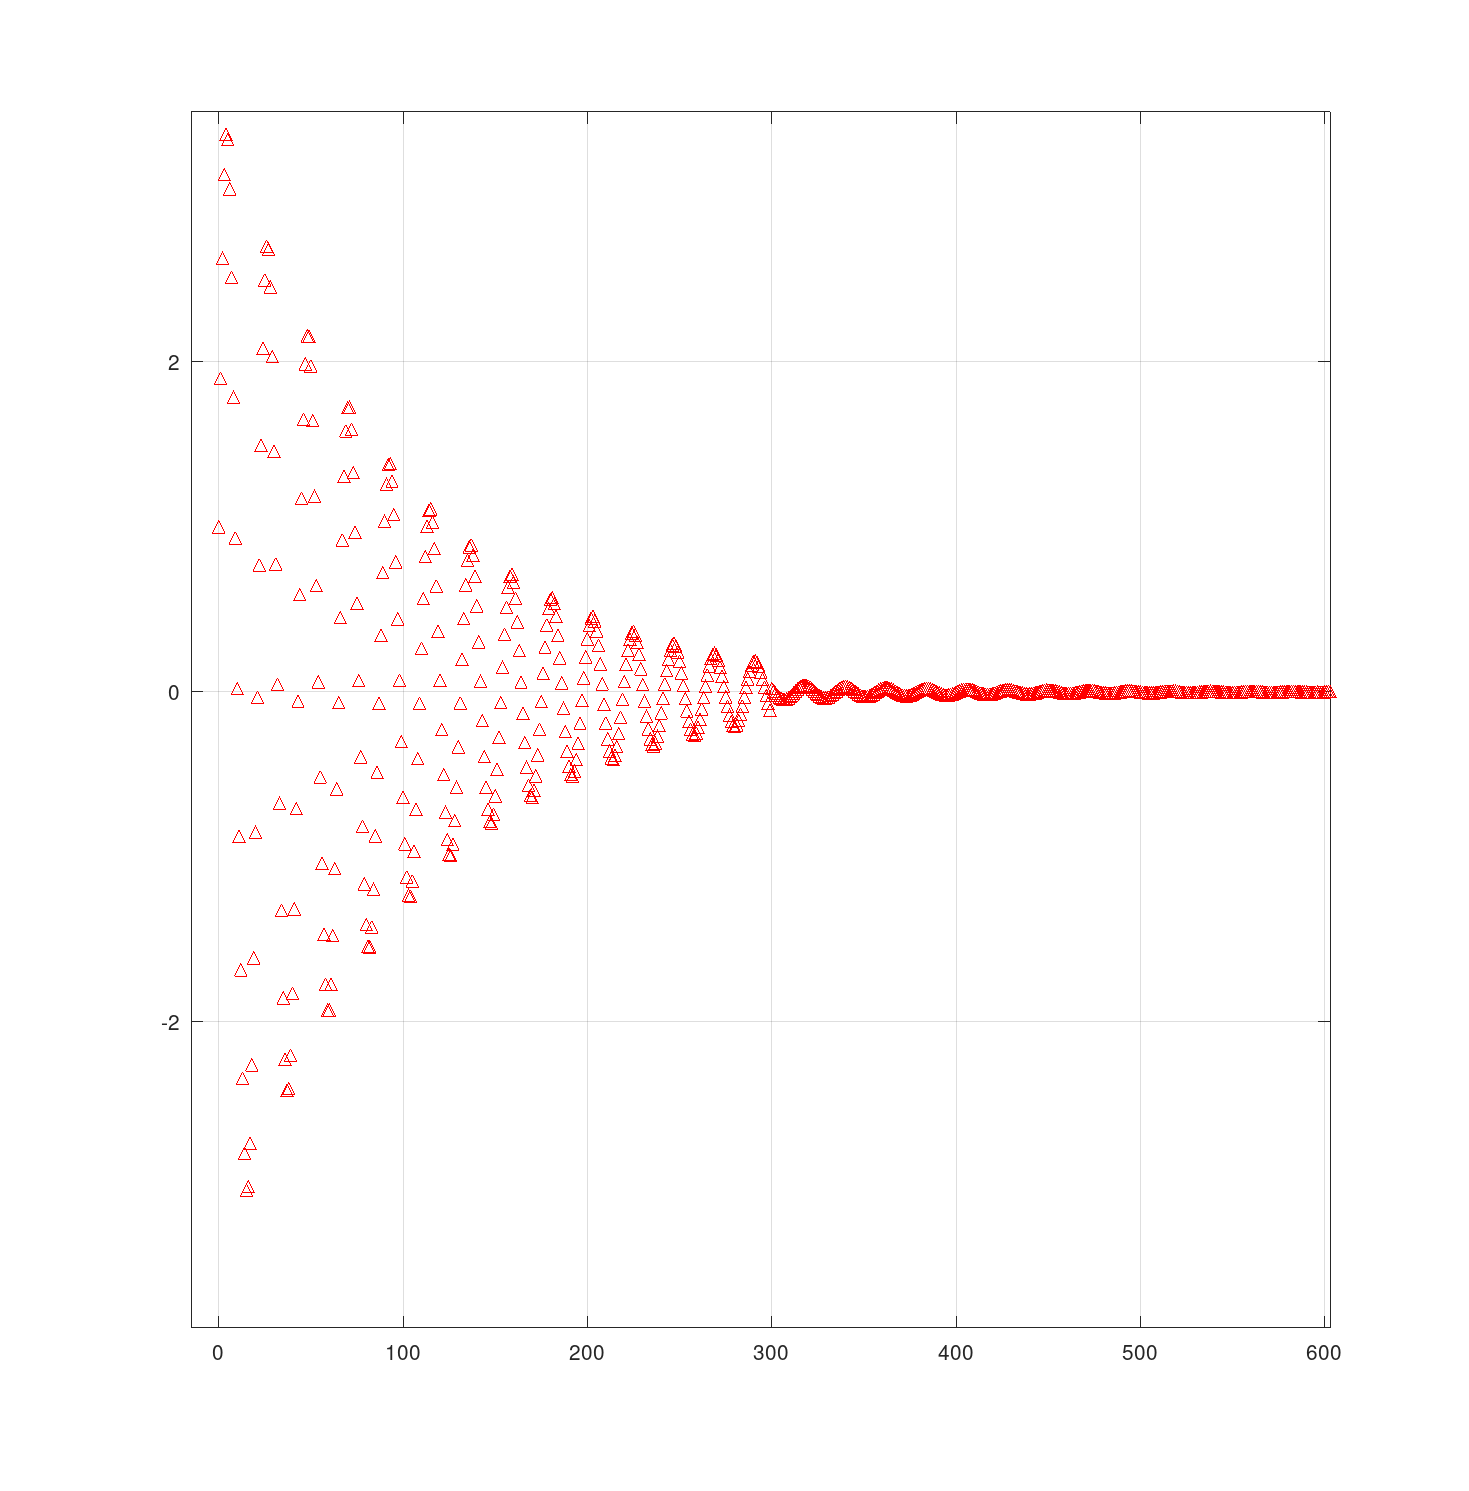
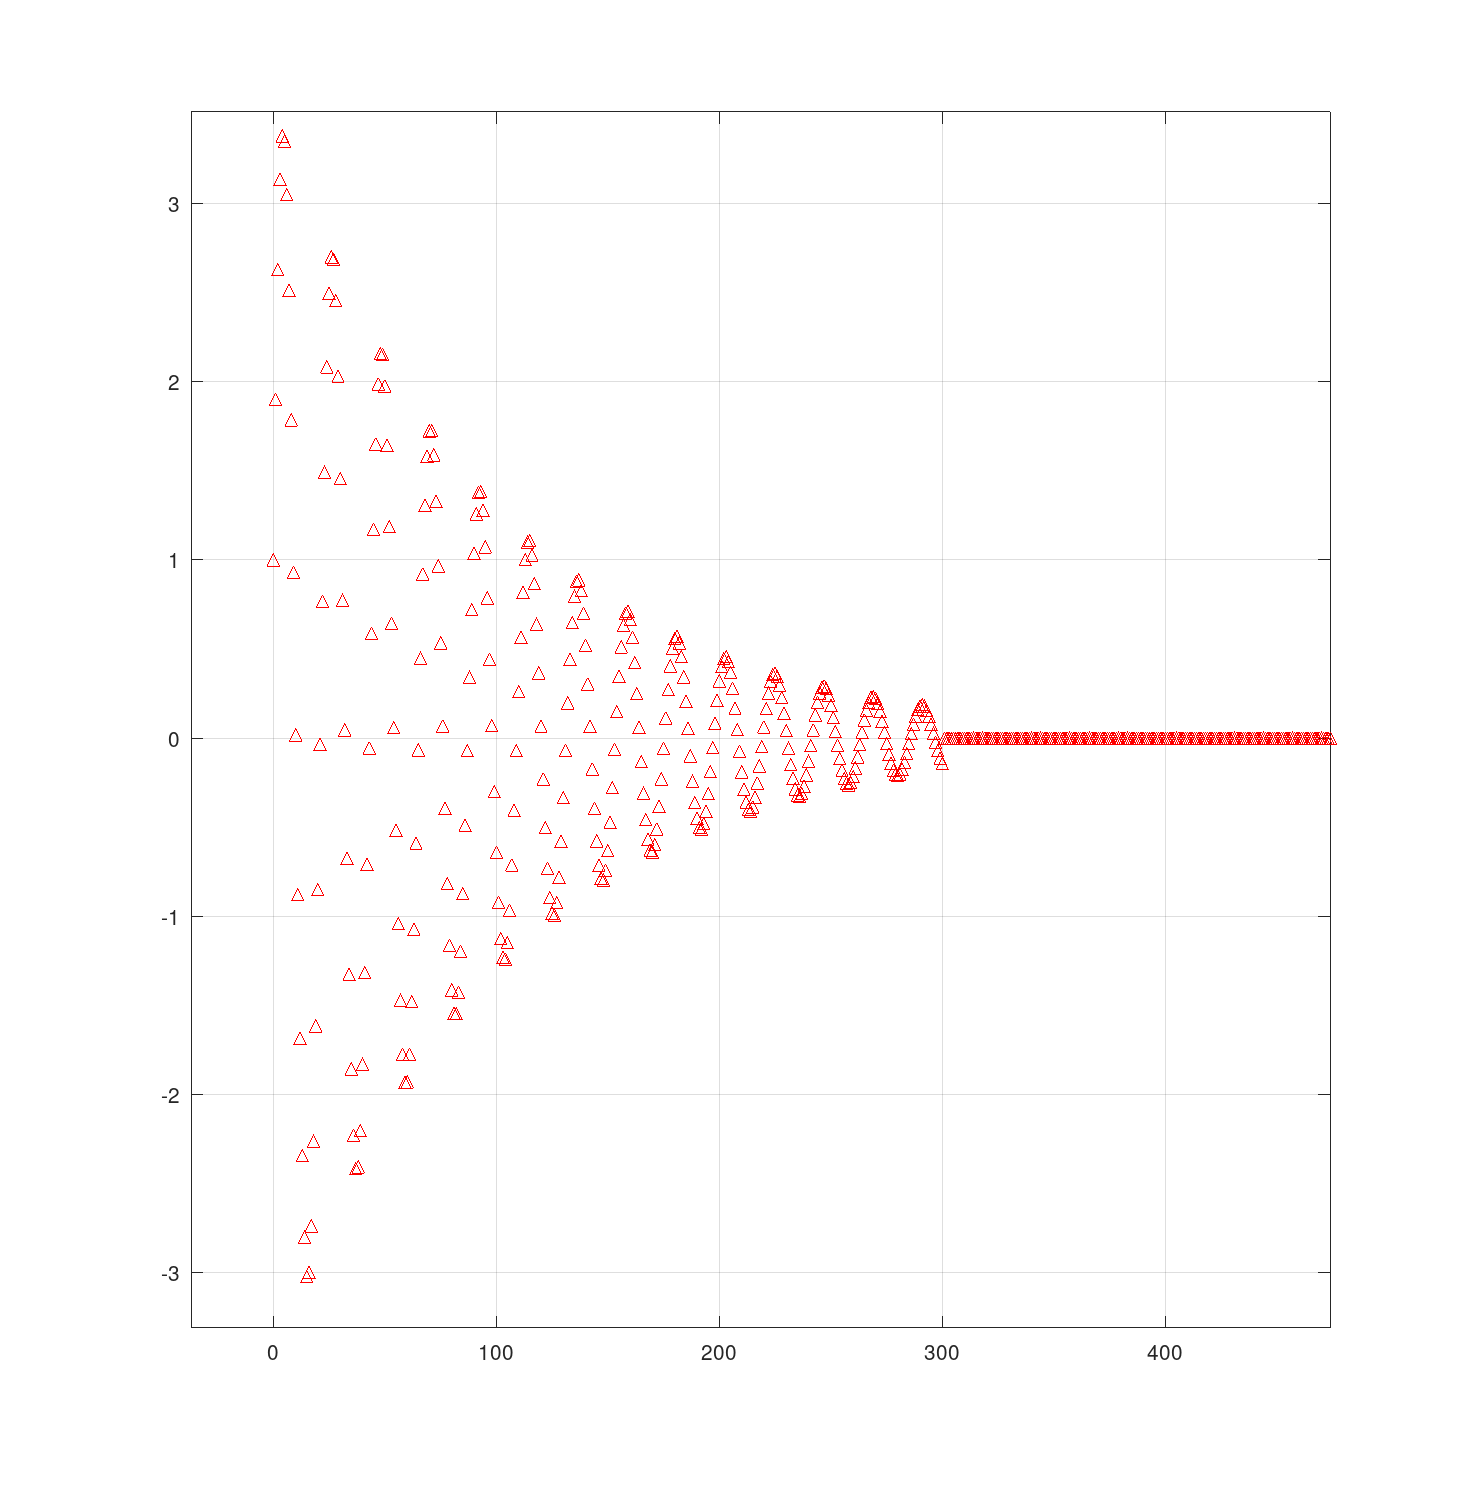
Fixed and finished impulse response for tiir hfir+

diff --git a/code/tiir.m b/code/tiir.m
@@ -10,8 +10,8 @@ q = 0.98;
 N = 300;
 
 % Polinomio de la funcion transferencia HFIR+
-num_HFIR1 = [1 zeros(1,N-1) a -b];
-den_HFIR1 = [1 -p q zeros(1,N-1)];
+num_HFIR1 = [1 zeros(1,N) a -b];
+den_HFIR1 = [1 -p q zeros(1,N)];
 
 % Grafico de la respuesta al impulso
 impz(num_HFIR1,den_HFIR1)
